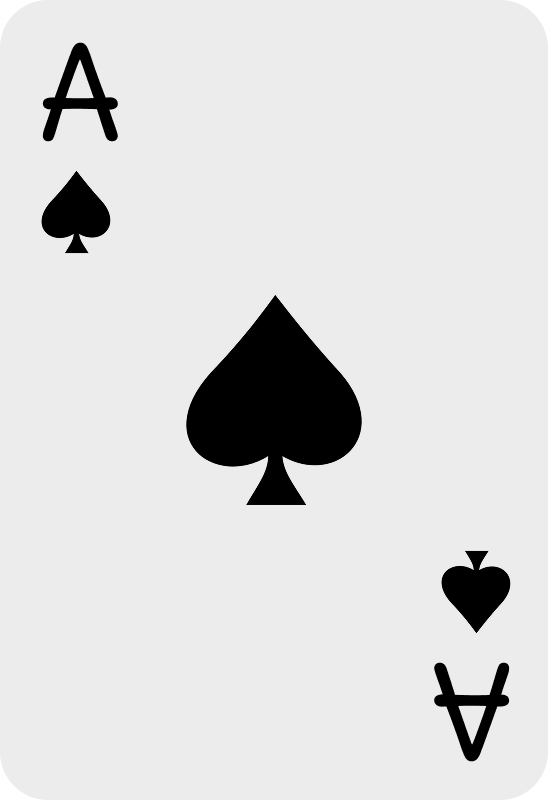
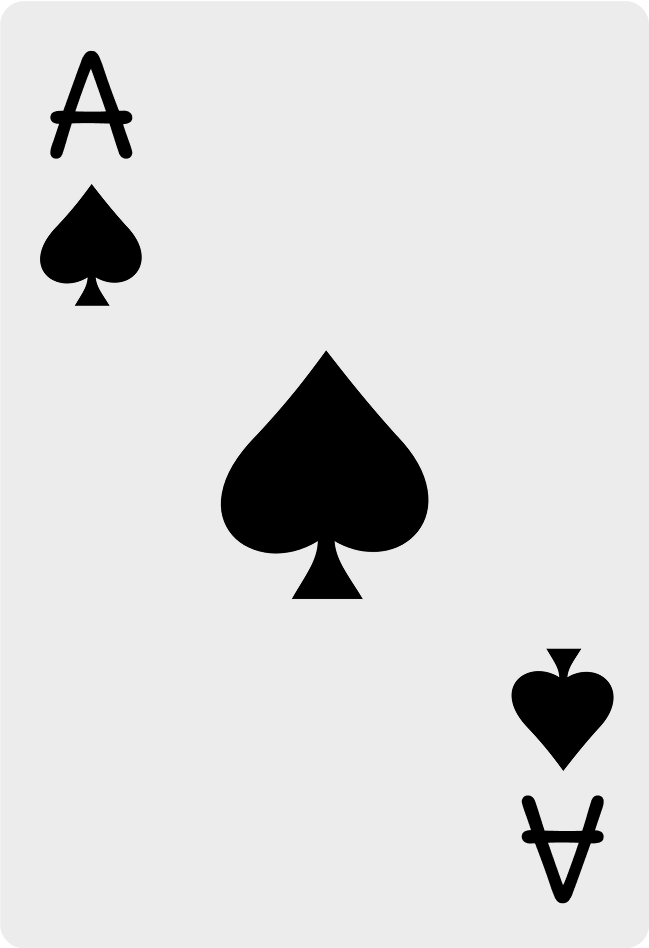
carta no bg

diff --git a/styles.css b/styles.css
@@ -11,11 +11,12 @@ body {
 
 .as-espadas-bg {
   position: absolute;
-  top: 477px;
-  left: -180px;
-  width: 259.997px;
-  height: 370.361px;
-  transform: rotate(-17.227deg);
+  top: 520px;
+  left: -207px;
+
+  width: 324.438px;
+  height: 473.632px;
+  transform: rotate(-42.266deg);
   flex-shrink: 0;
   opacity: 0.04;
   pointer-events: none;
@@ -143,6 +144,7 @@ body {
   background-color: transparent;
   padding-left: 40px;
   box-sizing: border-box;
+
   color: #f2b832;
   font-family: "Inter";
   font-size: 16px;
